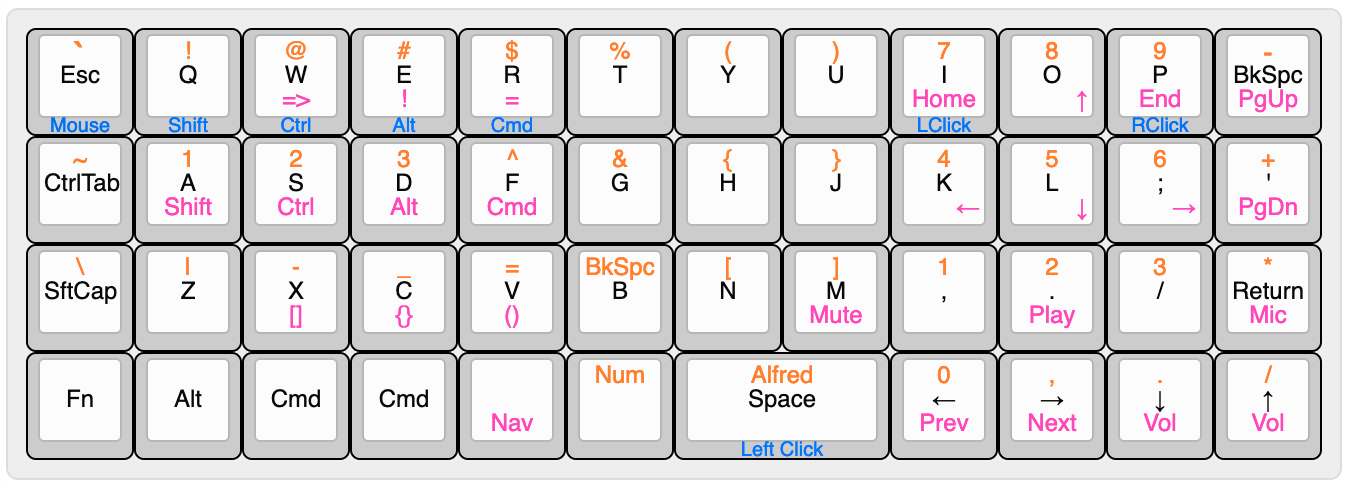
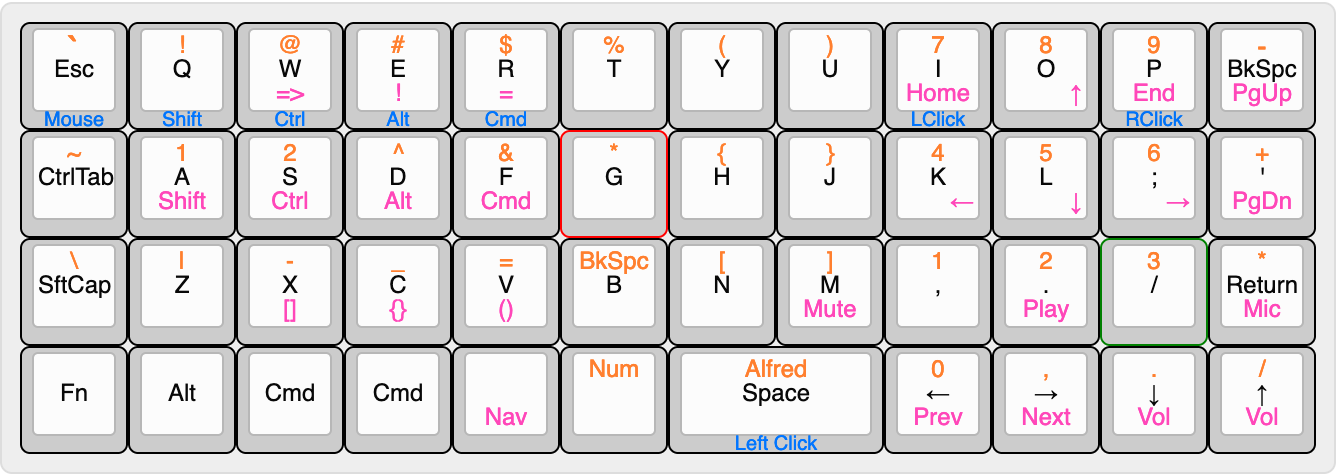
fix: fixes the numpad layout

diff --git a/keyboards/planck/keymaps/losandes_ambi/keymap.c b/keyboards/planck/keymaps/losandes_ambi/keymap.c
@@ -60,7 +60,7 @@ const uint16_t PROGMEM keymaps[][MATRIX_ROWS][MATRIX_COLS] = {
  * ,-----------------------------------------------------------------------.
  * |  `  |  !  |  @  |  #  |  $  |  %  |  (  |  )  |  7  |  8  |  9  |  -  |
  * |-----+-----+-----+-----+-----+-----+-----+-----+-----+-----+-----+-----|
- * |  ~  |  1  |  2  |  3  |  ^  |  &  |  {  |  }  |  4  |  5  |  6  |  +  |
+ * |  ~  |  1  |  2  |  ^  |  &  |  *  |  {  |  }  |  4  |  5  |  6  |  +  |
  * |-----+-----+-----+-----+-----+-----+-----+-----+-----+-----+-----+-----|
  * |  \  |  |  |  -  |  _  |  =  | Bksp|  [  |  ]  |  1  |  2  |  3  |  *  |
  * |-----+-----+-----+-----+-----+-----+-----+-----+-----+-----+-----+-----|
@@ -69,7 +69,7 @@ const uint16_t PROGMEM keymaps[][MATRIX_ROWS][MATRIX_COLS] = {
  */
 [_LYR_NUM] = LAYOUT_planck_grid(
   KC_GRV,  KC_EXLM, KC_AT,   KC_HASH, KC_DLR,  KC_PERC, KC_LPRN, KC_RPRN, KC_7, KC_8,    KC_9,   KC_MINS,
-  KC_TILD, KC_1,    KC_2,    KC_3,    KC_CIRC, KC_AMPR, KC_LCBR, KC_RCBR, KC_4, KC_5,    KC_6,   KC_PLUS,
+  KC_TILD, KC_1,    KC_2,    KC_CIRC, KC_AMPR, KC_PAST, KC_LCBR, KC_RCBR, KC_4, KC_5,    KC_6,   KC_PLUS,
   KC_BSLS, KC_PIPE, KC_MINS, KC_UNDS, KC_EQL,  KC_BSPC, KC_LBRC, KC_RBRC, KC_1, KC_2,    KC_3,   KC_PAST,
   _______, _______, _______, _______, KC_LCTL, _______, ALFRED,  ALFRED,  KC_0, KC_COMM, KC_DOT, KC_SLSH
 ),
